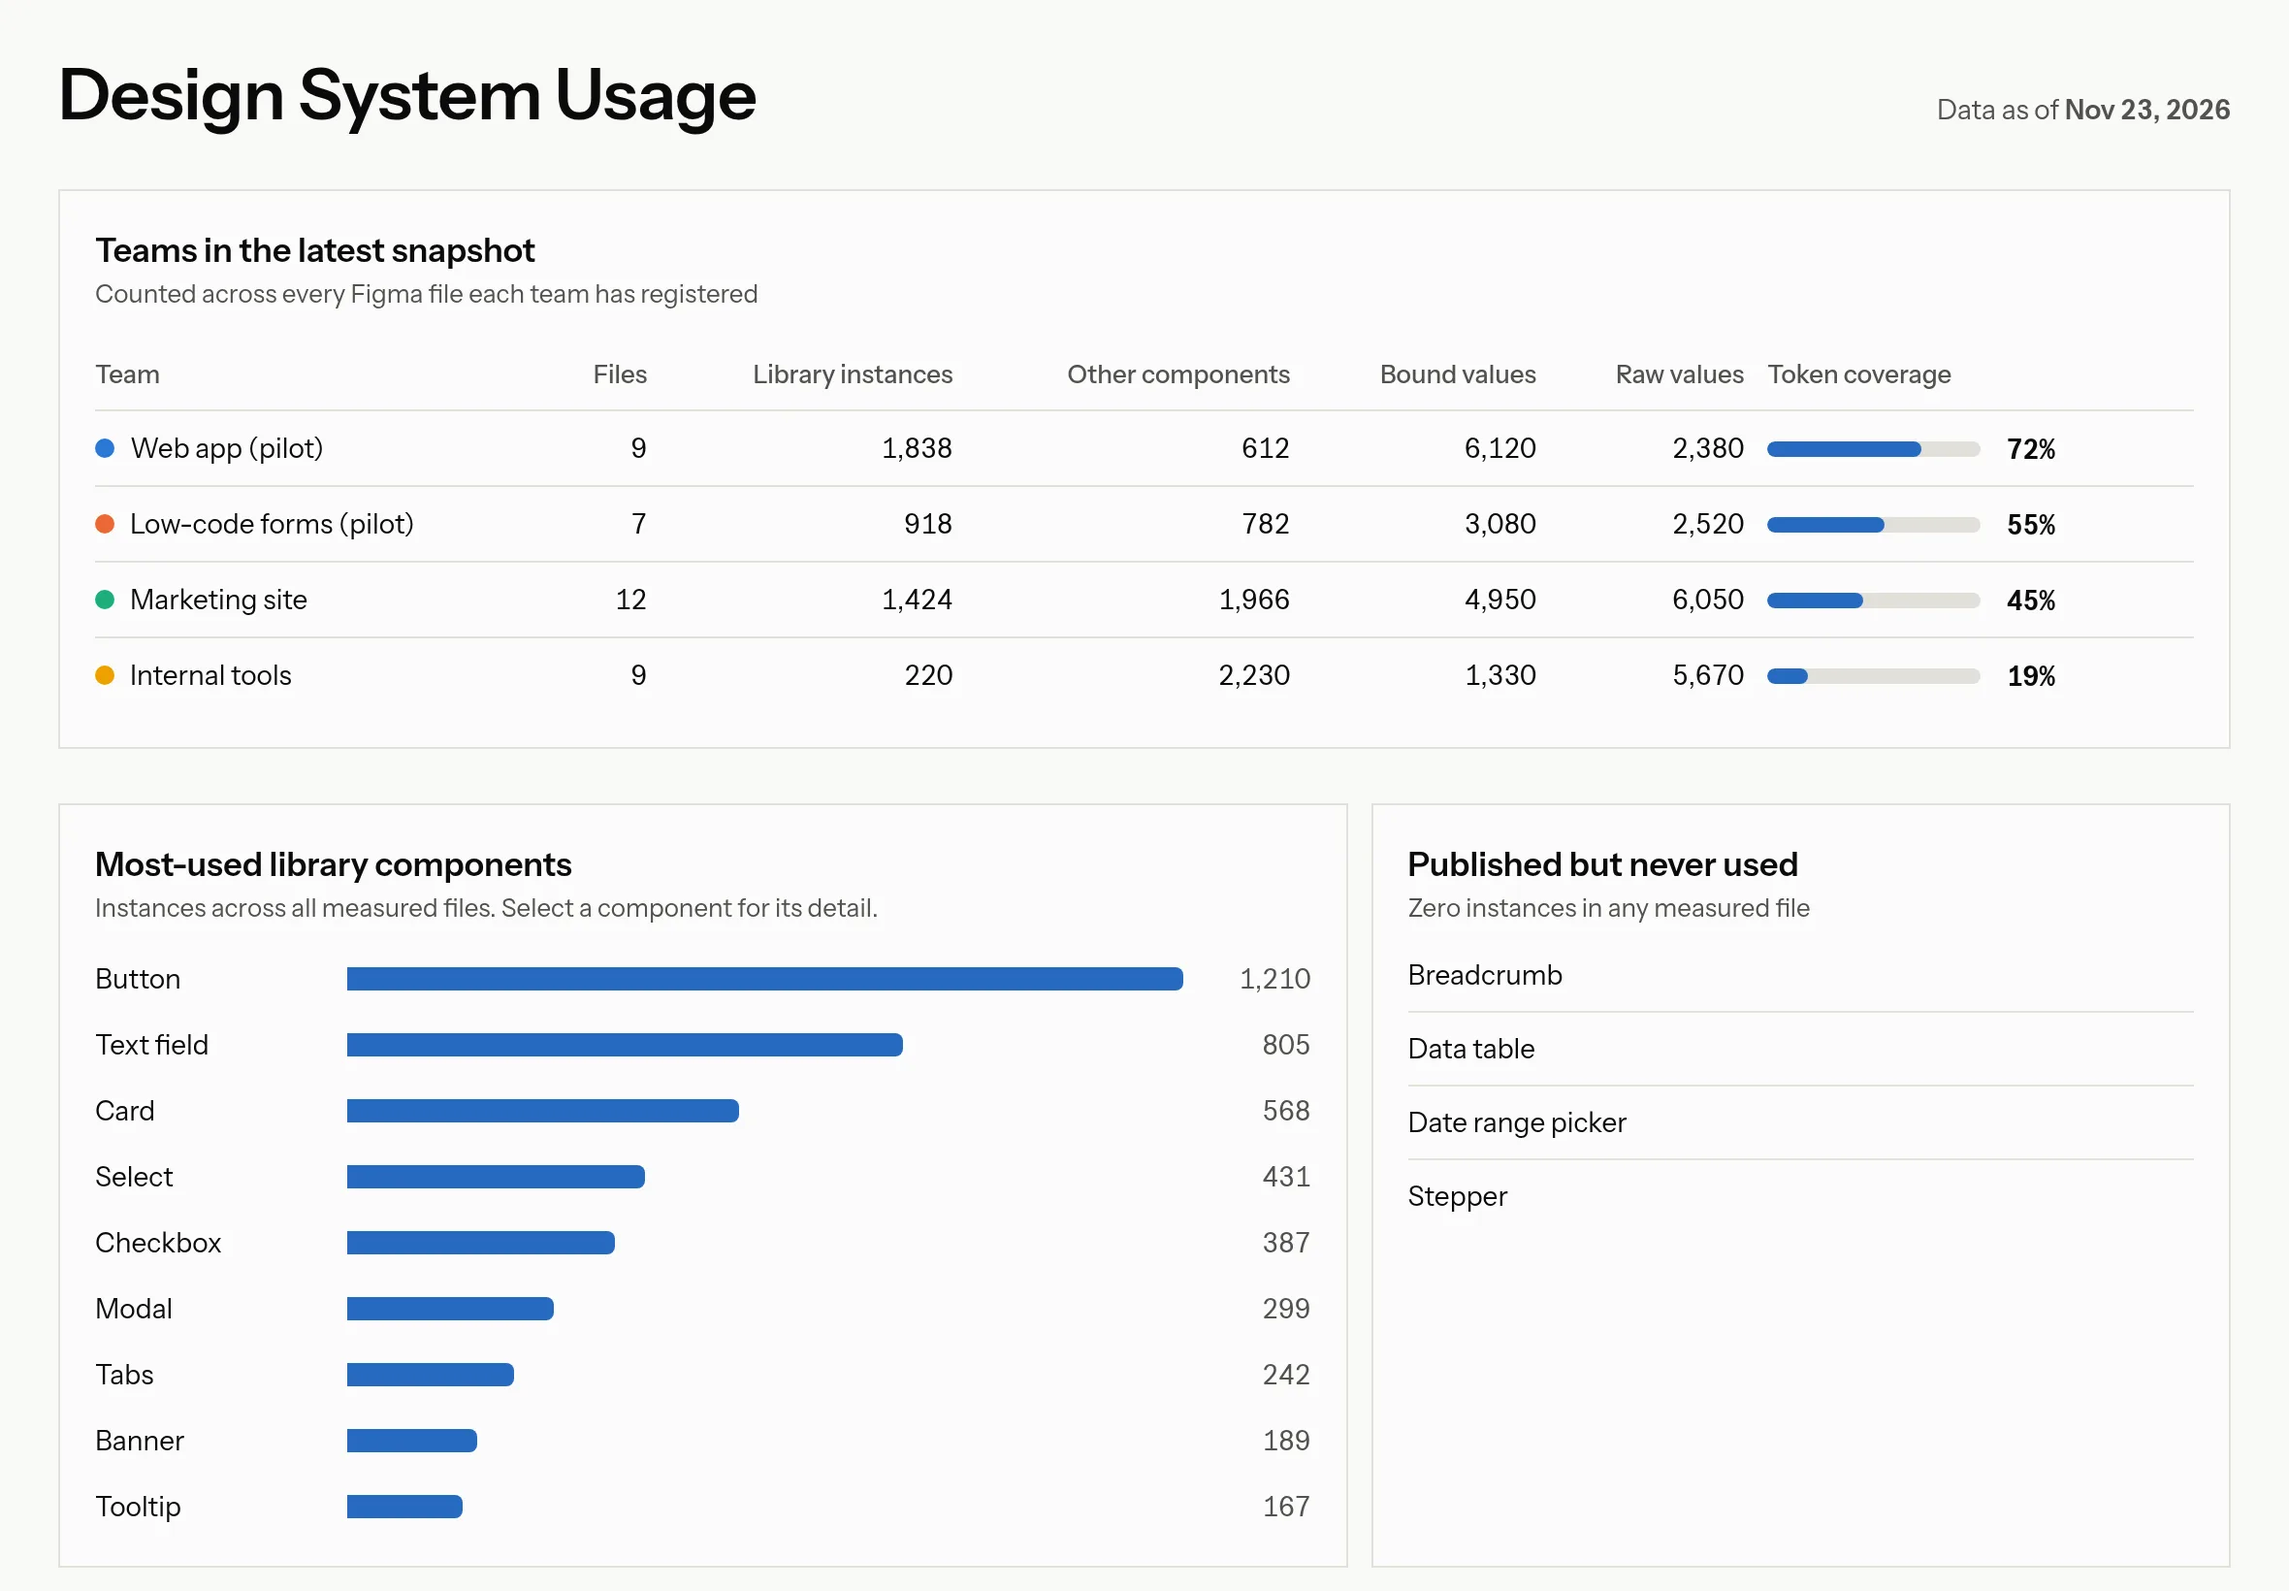
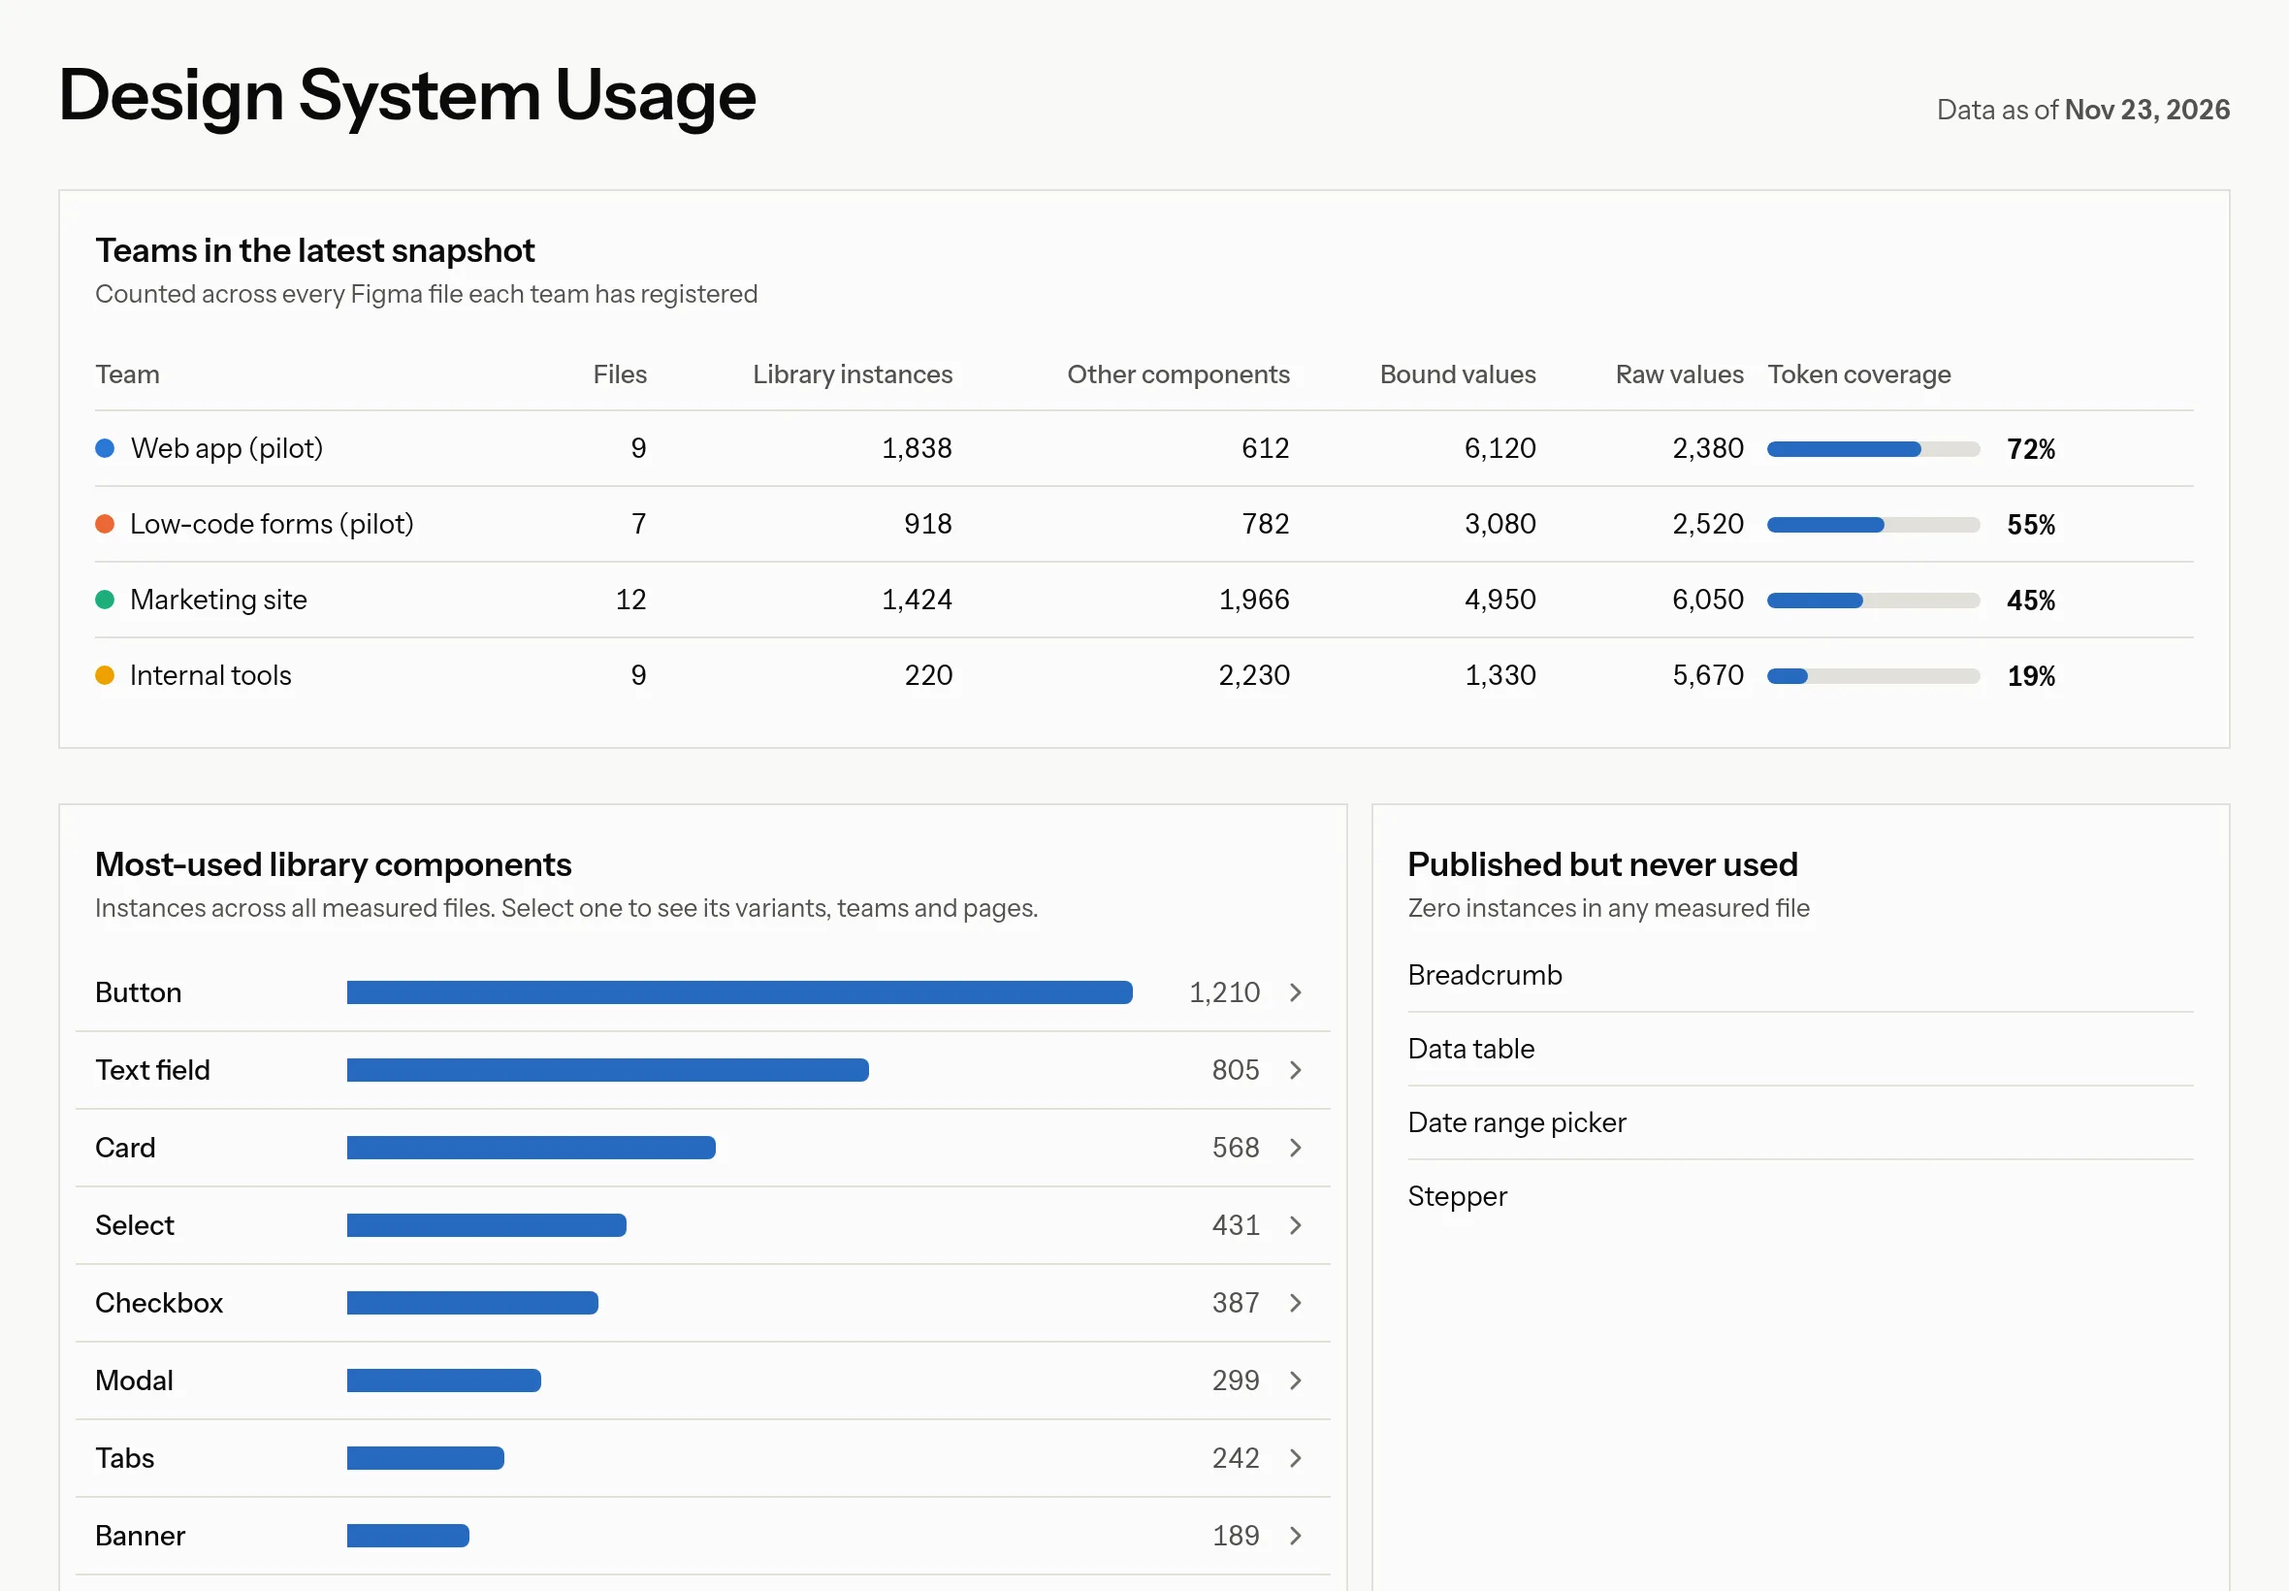
Make the most-used component rows look clickable
Each row links to that component's page, but the only cue was an underline on
hover. Rows now end in a chevron, sit between dividers at a 40px height, and
get a background on hover and focus. The panel subtitle says what the page
shows. The landing page's components screenshot is retaken to match.

diff --git a/site/index.html b/site/index.html
@@ -107,9 +107,18 @@
   .bar .track { display: block; height: 12px; }
   .bar .fill { display: block; height: 100%; background: var(--meter); border-radius: 0 4px 4px 0; min-width: 2px; }
   .bar .v { text-align: right; font-variant-numeric: tabular-nums; color: var(--ink2); }
-  a.bar { color: inherit; text-decoration: none; padding: 2px 0; }
-  a.bar:hover .label, a.bar:focus-visible .label { text-decoration: underline; }
-  a.bar:focus-visible { outline: 2px solid var(--meter); outline-offset: 2px; }
+  .bars:has(> a.bar) { gap: 0; }
+  a.bar {
+    grid-template-columns: 120px minmax(0, 1fr) 56px 16px; min-height: 40px; padding: 6px 10px; margin-inline: -10px;
+    color: inherit; text-decoration: none; border-bottom: 1px solid var(--grid);
+  }
+  a.bar:last-child { border-bottom: 0; }
+  a.bar .label { color: var(--ink); font-weight: 500; }
+  a.bar .go { width: 16px; height: 16px; fill: none; stroke: var(--muted); stroke-width: 2.2; stroke-linecap: round; stroke-linejoin: round; }
+  a.bar:hover, a.bar:focus-visible { background: var(--page); }
+  a.bar:hover .label, a.bar:focus-visible .label { text-decoration: underline; text-underline-offset: 3px; }
+  a.bar:hover .go, a.bar:focus-visible .go { stroke: var(--ink); }
+  a.bar:focus-visible { outline: 2px solid var(--meter); outline-offset: -2px; }
   #detail { width: 100%; }
   .back {
     display: inline-flex; align-items: center; gap: 6px; align-self: flex-start; min-height: 40px; padding: 0 16px 0 10px;
@@ -132,6 +141,7 @@
     .two { grid-template-columns: minmax(0, 1fr); }
     .tile .value { font-size: 28px; }
     .bar { grid-template-columns: 92px minmax(0, 1fr) 48px; }
+    a.bar { grid-template-columns: 92px minmax(0, 1fr) 48px 16px; }
   }
 </style>
 </head>
@@ -208,7 +218,7 @@
           <div class="panel-head">
             <div>
               <h2>Most-used library components</h2>
-              <p>Instances across all measured files. Select a component for its detail.</p>
+              <p>Instances across all measured files. Select one to see its variants, teams and pages.</p>
             </div>
           </div>
           <div class="bars" id="bars"></div>
@@ -559,7 +569,8 @@
       var inner = '<span class="label">' + esc(row.label) + '</span><span class="track"><span class="fill" style="width:' +
         (row.value / top * 100).toFixed(1) + '%"></span></span><span class="v">' + fmt(row.value) + '</span>';
       return linked
-        ? '<a class="bar" href="#component/' + encodeURIComponent(row.label) + '" title="' + title + '">' + inner + '</a>'
+        ? '<a class="bar" href="#component/' + encodeURIComponent(row.label) + '" title="' + title + '">' + inner +
+          '<svg class="go" viewBox="0 0 24 24" aria-hidden="true"><path d="M9 6l6 6-6 6"/></svg></a>'
         : '<div class="bar" title="' + title + '">' + inner + '</div>';
     }).join('');
   }
